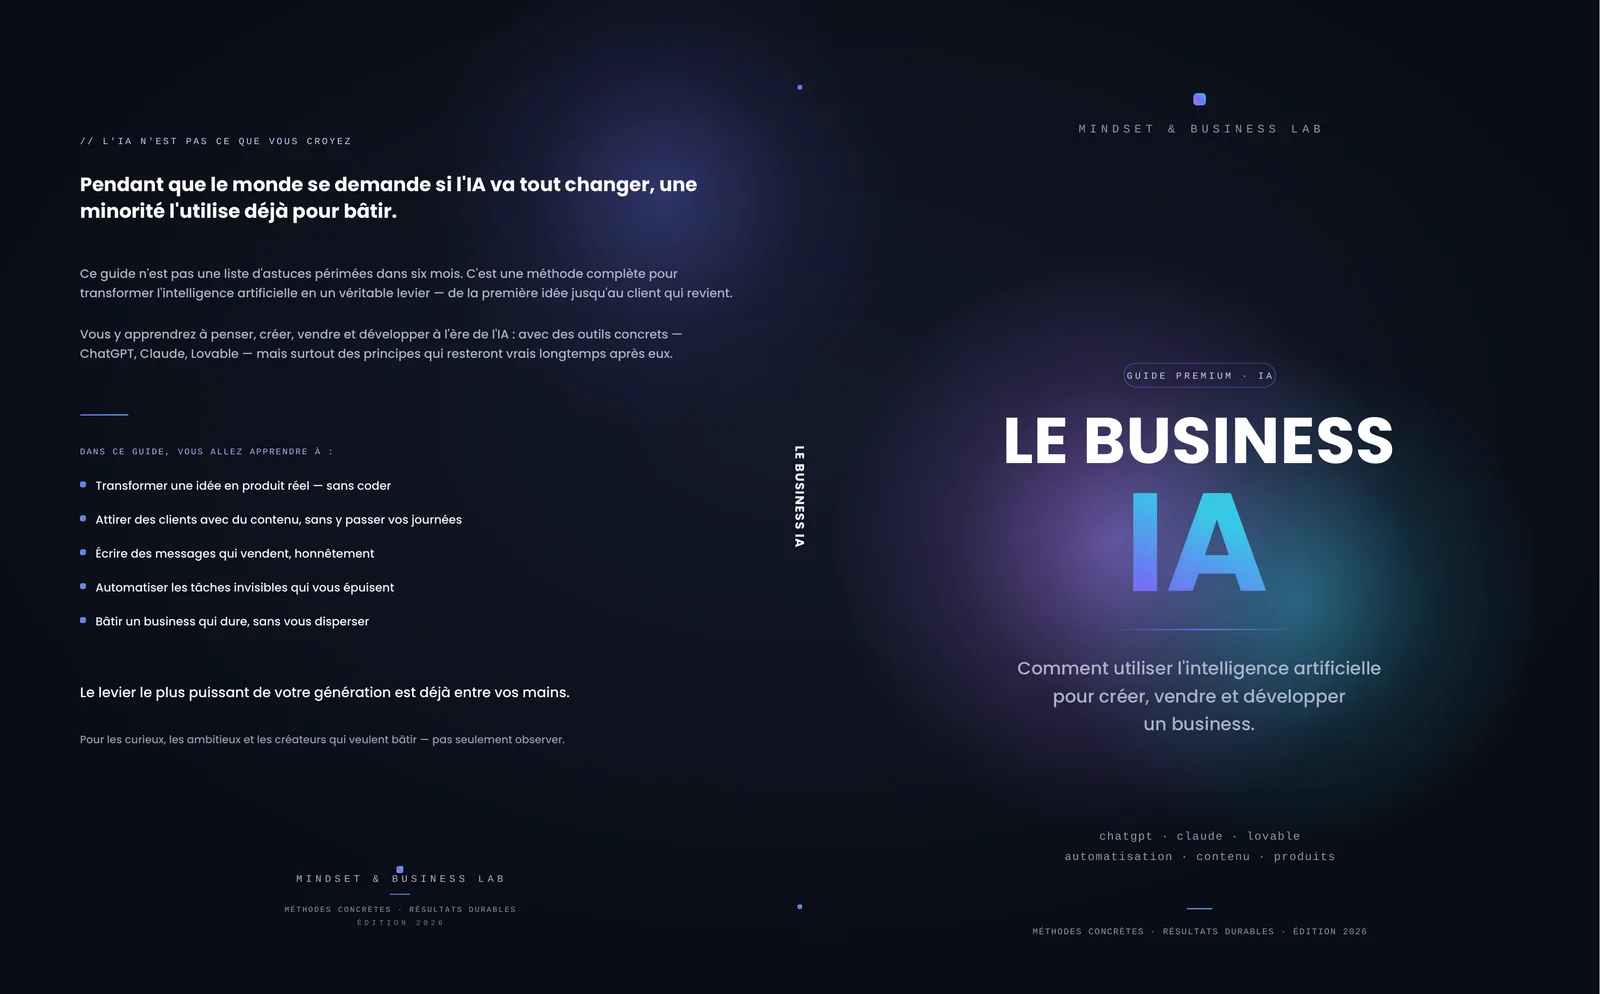
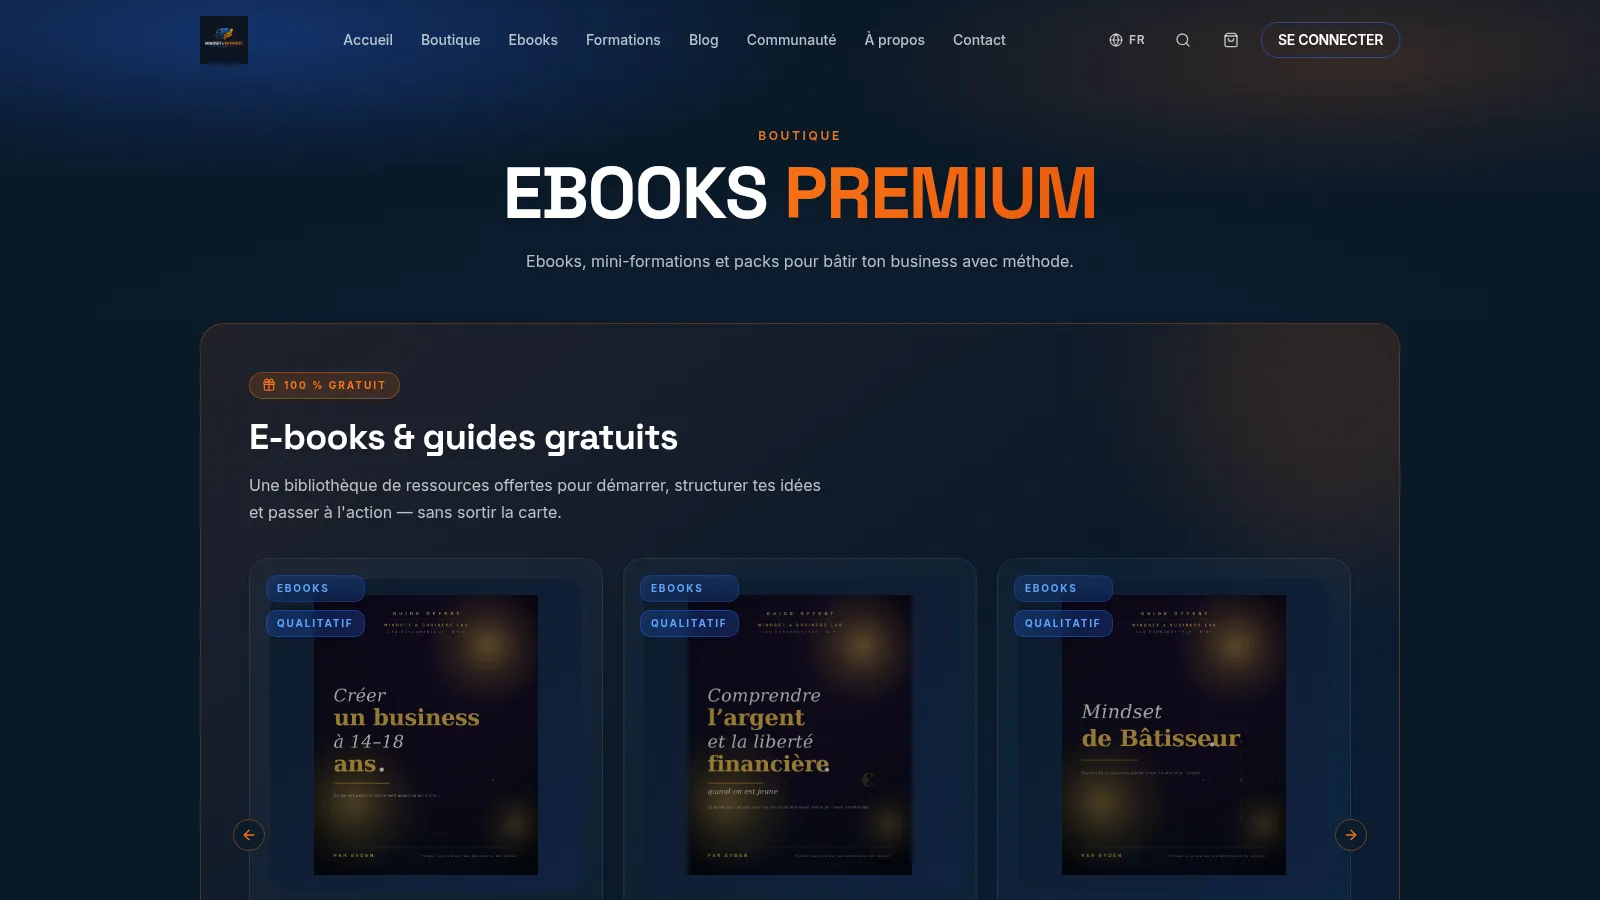
Point Auteur & Édition at its shelf inside MindSet
The library has no site of its own — it lives in MindSet & Business Lab,
which sells it, and the dossier already says so ("Vendus via MindSet &
Business Lab"). Only the link was missing, so the card and the dossier
both claimed "Ce projet n'est pas encore public" while the fifteen
titles are on sale. Both now point at the ebooks shelf.

The cover is a capture of that shelf rather than of a site the project
does not have: the page shows the actual book covers, which is what the
project is.

Status stays "En cours" — the books are public, the writing is not
finished, and those are two different facts.

Claude-Session: https://claude.ai/code/session_018UBkNrepXt83waDzfB6Ywy

diff --git a/src/content/projects.ts b/src/content/projects.ts
@@ -127,7 +127,10 @@ export const projects: Project[] = [
       "Bibliothèque de contenus éducatifs orientés action : un ouvrage principal (~350 pages) et une série de titres sur le business, le marketing et l'IA.",
     goal: "Donner à l'écosystème sa profondeur éducative.",
     tech: ["Édition numérique", "Création de contenu"],
-    url: null,
+    // La bibliothèque n'a pas de site à elle : elle vit dans MindSet & Business
+    // Lab, qui la vend. Le lien mène donc à son rayon. Laisser `null` affichait
+    // « Ce projet n'est pas encore public » alors que les 15 titres le sont.
+    url: "https://mindsetbusinesslab.store/ebooks",
     image: "/projets/auteur-edition.webp",
     accent: "#D9A55B",
   },

diff --git a/src/content/project-chapters.ts b/src/content/project-chapters.ts
@@ -456,7 +456,7 @@ export const projectDetails: ProjectDetail[] = [
     categories: ["Édition numérique"],
     status: "En cours",
     accent: "#D9A55B",
-    url: null,
+    url: "https://mindsetbusinesslab.store/ebooks",
     tagline: "15 e-books, 2 packs. Écrits pour agir.",
     chapters: [
       {
